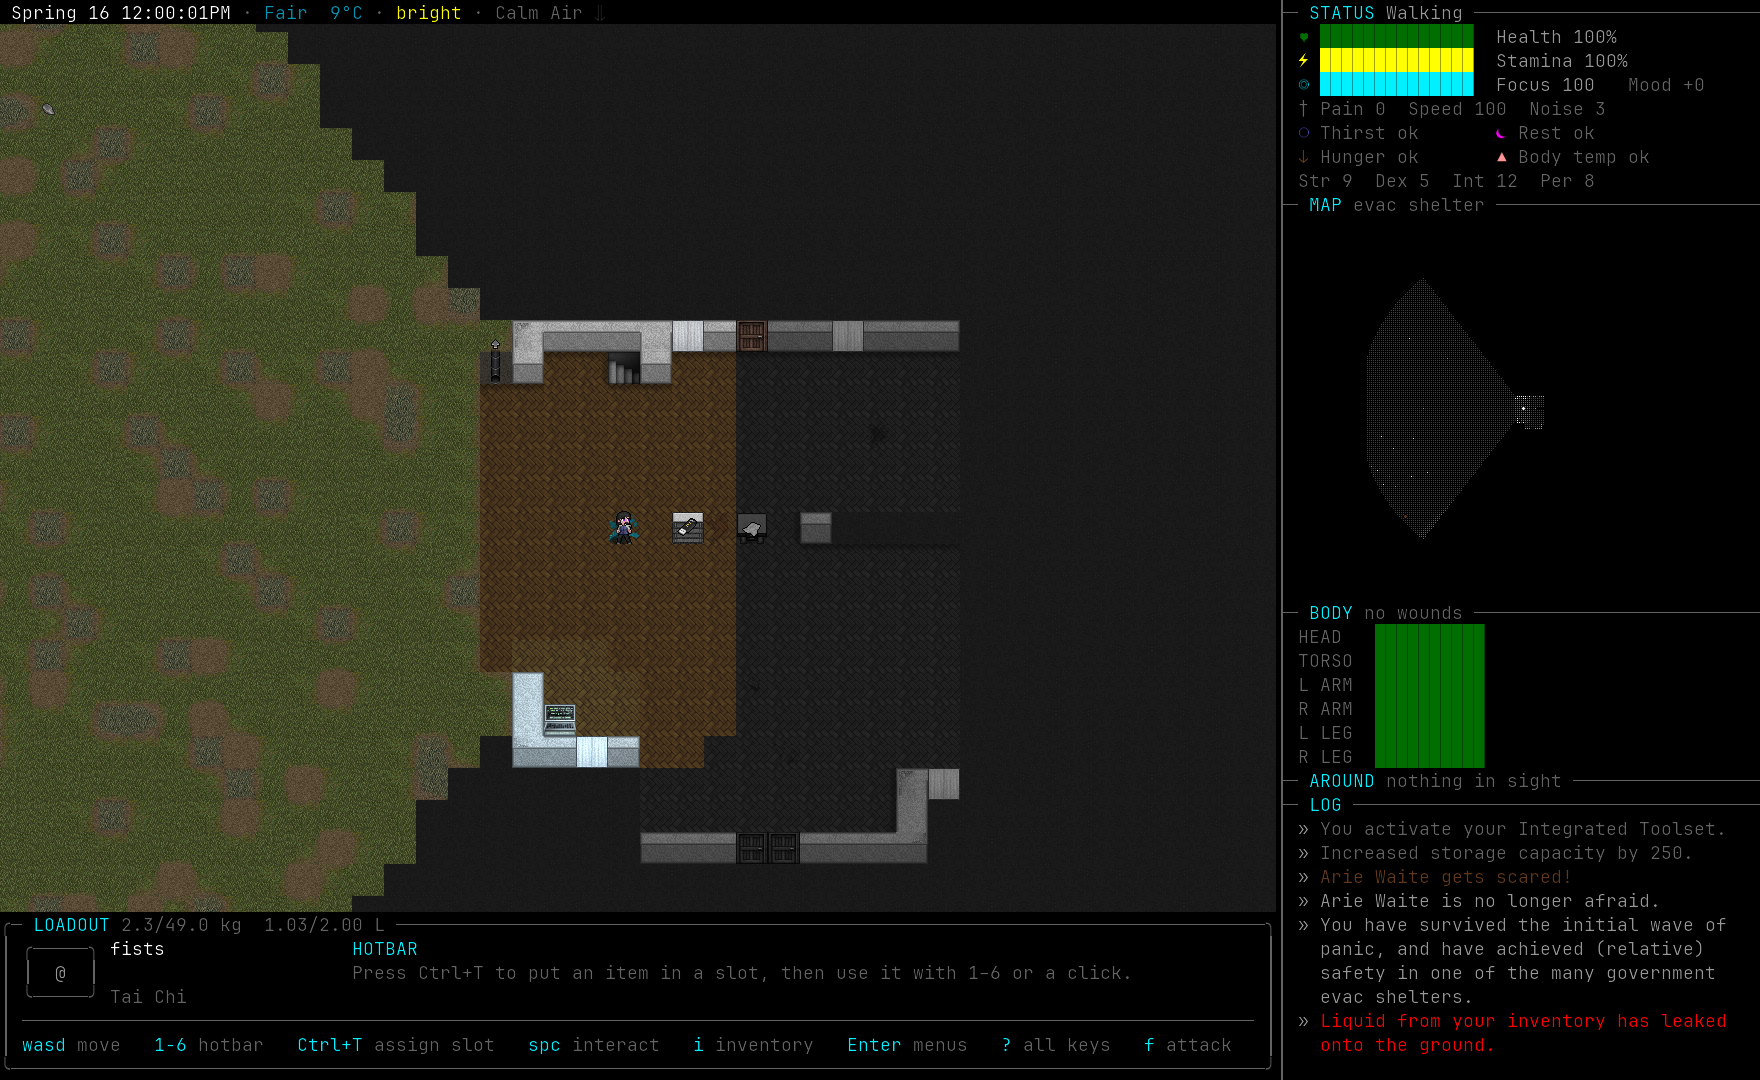
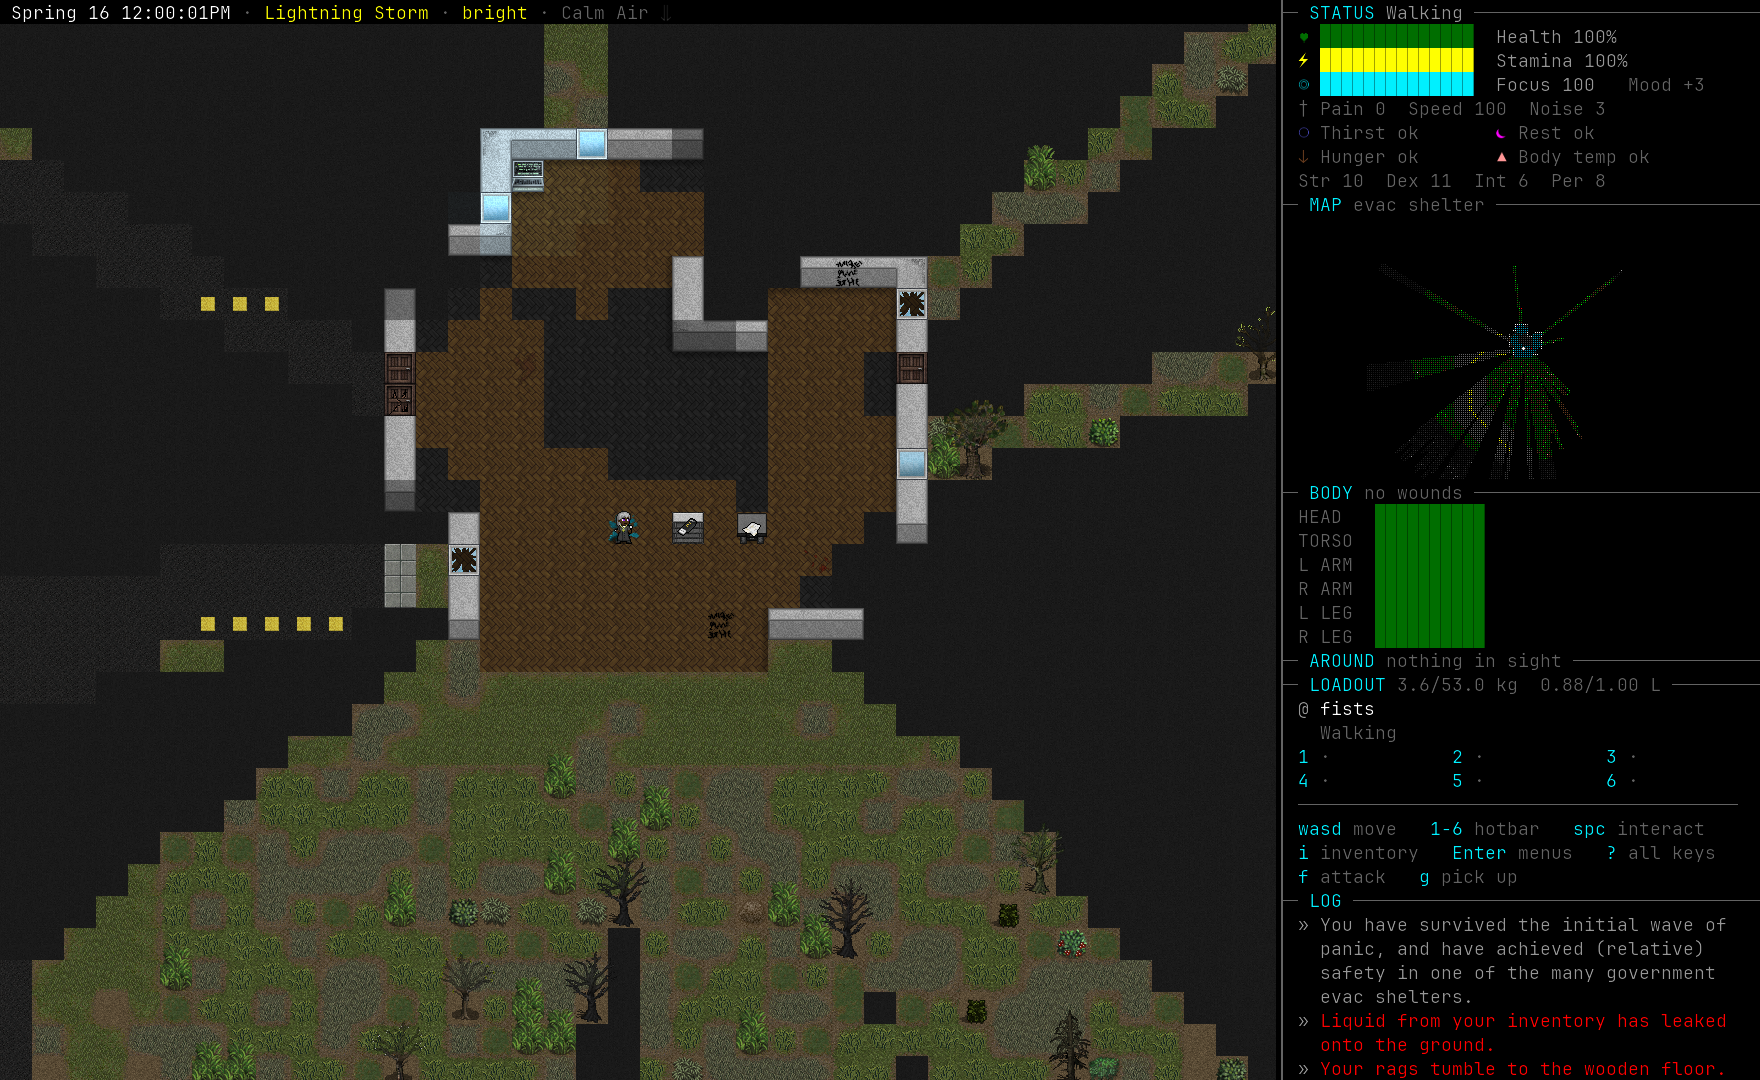
feat(hud): dock the fusion loadout into the sidebar

diff --git a/src/hud_fusion.cpp b/src/hud_fusion.cpp
@@ -32,8 +32,6 @@ namespace
 
 using namespace hud_draw;
 
-constexpr auto deck_height = 7;
-
 /// Icon, the need's name and its state; an unmet need replaces "ok" with its own wording.
 struct hit_area {
     rect at;
@@ -42,6 +40,10 @@ struct hit_area {
 };
 /// Where the last frame drew its overlays, in map-window cells, for click handling.
 auto hits = std::vector<hit_area>();
+/// Where the LOADOUT section drew its hotbar cells, in sidebar cells, for click handling.
+auto loadout_hits = std::vector<hit_area>();
+
+auto edge( const catacurses::window &w ) -> void;
 
 auto need( const catacurses::window &w, const point at, const char *icon, const nc_color icon_color,
            const hud_snapshot::need &n ) -> void
@@ -99,8 +101,8 @@ auto key_for( const action_id act ) -> std::string
     return desc == inp_mngr.get_keyname( ' ', input_event_t::keyboard ) ? std::string( _( "spc" ) ) : desc;
 }
 
-/// The handful of keys a player needs most, with their live bindings, on one row.
-auto draw_hints( const catacurses::window &w, const point at, const int room ) -> void
+/// The handful of keys a player needs most, with their live bindings, wrapped over `rows` rows.
+auto draw_hints( const catacurses::window &w, const point at, const int room, const int rows = 1 ) -> void
 {
     struct entry {
         std::vector<action_id> acts;
@@ -111,18 +113,19 @@ auto draw_hints( const catacurses::window &w, const point at, const int room ) -
     static const auto entries = std::array<entry, 11> { {
             { { ACTION_MOVE_FORTH, ACTION_MOVE_LEFT, ACTION_MOVE_BACK, ACTION_MOVE_RIGHT }, translate_marker( "move" ) },
             { { ACTION_HOTBAR_1, ACTION_HOTBAR_6 }, translate_marker( "hotbar" ), true },
-            { { ACTION_HOTBAR_ASSIGN }, translate_marker( "assign slot" ) },
             { { ACTION_EXAMINE }, translate_marker( "interact" ) },
             { { ACTION_INVENTORY }, translate_marker( "inventory" ) },
             { { ACTION_ACTIONMENU }, translate_marker( "menus" ) },
             { { ACTION_KEYBINDINGS }, translate_marker( "all keys" ) },
             { { ACTION_FIRE }, translate_marker( "attack" ) },
             { { ACTION_PICKUP }, translate_marker( "pick up" ) },
+            { { ACTION_HOTBAR_ASSIGN }, translate_marker( "assign slot" ) },
             { { ACTION_PAUSE }, translate_marker( "wait" ) },
             { { ACTION_MAP }, translate_marker( "map" ) },
         }
     };
     auto x = at.x;
+    auto y = at.y;
     for( const auto &e : entries ) {
         auto keys = std::string();
         for( const auto act : e.acts ) {
@@ -132,10 +135,14 @@ auto draw_hints( const catacurses::window &w, const point at, const int room ) -
             continue;
         }
         if( x + width( keys ) + 1 + utf8_width( _( e.label ) ) > at.x + room ) {
-            break;
+            if( y + 1 >= at.y + rows ) {
+                break;
+            }
+            ++y;
+            x = at.x;
         }
-        x = text( w, point( x, at.y ), pal::heading(), keys );
-        x = text( w, point( x + 1, at.y ), pal::muted(), _( e.label ) ) + 3;
+        x = text( w, point( x, y ), pal::heading(), keys );
+        x = text( w, point( x + 1, y ), pal::muted(), _( e.label ) ) + 3;
     }
 }
 
@@ -146,9 +153,9 @@ auto draw_vehicle( const avatar &you, const canvas &area ) -> void
         return;
     }
     const auto height = static_cast<int>( rows.size() ) + 2;
-    hits.push_back( { .at = { .at = point( 0, area.height - deck_height - height ), .width = 32, .height = height } } );
+    hits.push_back( { .at = { .at = point( 0, area.height - height ), .width = 32, .height = height } } );
     const auto w = panel( area, {
-        .at = point( 0, area.height - deck_height - height ), .width = 32, .height = height
+        .at = point( 0, area.height - height ), .width = 32, .height = height
     } );
     card( w, { .title = _( "VEHICLE" ) } );
     for( auto i = 0; i < static_cast<int>( rows.size() ); ++i ) {
@@ -156,74 +163,47 @@ auto draw_vehicle( const avatar &you, const canvas &area ) -> void
     }
 }
 
-auto draw_deck( const avatar &you, const canvas &area, const hud_snapshot::snapshot &s ) -> void
+/// The LOADOUT section: the held weapon, the hotbar and the keys most used, in the column.
+auto loadout_section( const catacurses::window &w, const avatar &you, const hud_snapshot::snapshot &s ) -> void
 {
-    hits.push_back( { .at = { .at = point( 0, area.height - deck_height ), .width = area.width, .height = deck_height } } );
-    const auto w = panel( area, {
-        .at = point( 0, area.height - deck_height ), .width = area.width, .height = deck_height
-    } );
-    card( w, { .title = _( "LOADOUT" ), .summary = string_format( "%s kg  %s L", s.weight, s.volume ),
+    edge( w );
+    rule( w, { .title = _( "LOADOUT" ),
+               .summary = string_format( "%s kg  %s L", s.weight, s.volume ),
                .summary_color = pal::muted() } );
 
-    // The weapon card; the item's map symbol stands in for its tile.
-    text( w, point( 2, 1 ), pal::border(), "╭─────╮" );
-    text( w, point( 2, 2 ), pal::border(), "│     │" );
-    text( w, point( 2, 3 ), pal::border(), "╰─────╯" );
-    text( w, point( 5, 2 ), s.weapon_color, s.weapon_symbol );
-    constexpr auto weapon_room = 20;
-    text( w, point( 10, 1 ), pal::title(), utf8_truncate( s.weapon, weapon_room ) );
-    auto x = 10;
+    // The held weapon: its map symbol, its name, and the ammo it fires.
+    text( w, point( 2, 1 ), s.weapon_color, s.weapon_symbol );
+    auto x = text( w, point( 4, 1 ), pal::title(), utf8_truncate( s.weapon, 24 ) );
     if( s.gun ) {
-        x = text( w, point( x, 2 ), pal::accent(), s.ammo );
-        x = dot( w, point( x, 2 ) );
+        x = text( w, point( x + 1, 1 ), pal::accent(), s.ammo );
     }
     if( s.armed ) {
-        text( w, point( x, 2 ), pal::text(), glyph::weapon );
+        text( w, point( x + 1, 1 ), pal::text(), glyph::weapon );
     }
-    text( w, point( 10, 3 ), pal::muted(), utf8_truncate( s.style.empty() ? s.stance : s.style, weapon_room ) );
+    text( w, point( 4, 2 ), pal::muted(), utf8_truncate( s.style.empty() ? s.stance : s.style, 36 ) );
 
-    // Hotbar: six boxes, the key in the top edge, the item's symbol and name inside.
-    constexpr auto slot_x = 32;
-    const auto room = area.width - slot_x - 2;
-    const auto box_w = std::clamp( room / hotbar::slots, 9, 16 );
-    const auto any_assigned = std::ranges::any_of( std::views::iota( 0, hotbar::slots ), [&]( const int i ) {
-        return hotbar::view( you, i ).assigned;
-    } );
-    if( !any_assigned ) {
-        // Six empty boxes teach nothing; say what the slots are for and how to fill them.
-        const auto assign = key_for( ACTION_HOTBAR_ASSIGN );
-        text( w, point( slot_x, 1 ), pal::heading(), _( "HOTBAR" ) );
-        text( w, point( slot_x, 2 ), pal::muted(), assign.empty() ?
-              _( "Assign items from Enter → Misc → Assign a hotbar slot, then use them with 1–6." ) :
-              string_format( _( "Press %s to put an item in a slot, then use it with 1–6 or a click." ), assign ) );
-    }
-    for( auto i = 0; any_assigned && i < hotbar::slots; ++i ) {
+    // Hotbar: three cells per row, the digit that uses the slot first. Empty slots still draw, so
+    // the row shows what there is to fill and where.
+    constexpr auto cell_w = 14;
+    for( auto i = 0; i < hotbar::slots; ++i ) {
         const auto v = hotbar::view( you, i );
-        const auto sx = slot_x + i * box_w;
-        hits.push_back( { .at = { .at = point( sx, area.height - deck_height + 1 ), .width = box_w - 1, .height = 3 },
-                          .slot = i } );
+        const auto sx = 2 + ( i % 3 ) * cell_w;
+        const auto sy = 3 + i / 3;
+        loadout_hits.push_back( { .at = { .at = point( getbegx( w ) + sx, getbegy( w ) + sy ),
+                                         .width = cell_w, .height = 1 }, .slot = i } );
         const auto ready = v.assigned && v.count > 0;
-        const auto color = v.wielded ? pal::accent() : ready ? pal::text() : pal::border();
-        hline( w, point( sx + 1, 1 ), box_w - 3, color );
-        hline( w, point( sx + 1, 3 ), box_w - 3, color );
-        text( w, point( sx, 1 ), color, "╭" );
-        text( w, point( sx + box_w - 2, 1 ), color, "╮" );
-        text( w, point( sx, 2 ), color, "│" );
-        text( w, point( sx + box_w - 2, 2 ), color, "│" );
-        text( w, point( sx, 3 ), color, "╰" );
-        text( w, point( sx + box_w - 2, 3 ), color, "╯" );
-        text( w, point( sx + 2, 1 ), v.wielded ? pal::accent() : pal::heading(), std::to_string( i + 1 ) );
+        auto cx = text( w, point( sx, sy ), v.wielded ? pal::accent() : pal::heading(), std::to_string( i + 1 ) );
         if( !v.assigned ) {
-            text( w, point( sx + 2, 2 ), pal::border(), "·" );
+            text( w, point( cx + 1, sy ), pal::border(), "·" );
             continue;
         }
-        text( w, point( sx + 2, 2 ), ready ? v.color : pal::border(), v.symbol );
+        cx = text( w, point( cx + 1, sy ), ready ? v.color : pal::border(), " " + v.symbol );
         const auto label = v.name + ( v.count > 1 ? " x" + std::to_string( v.count ) : std::string() );
-        text( w, point( sx + 4, 2 ), ready ? pal::title() : pal::muted(), utf8_truncate( label, box_w - 7 ) );
+        text( w, point( cx + 1, sy ), ready ? pal::title() : pal::muted(), utf8_truncate( label, cell_w - 6 ) );
     }
 
-    hline( w, point( 2, 4 ), area.width - 4, pal::border() );
-    draw_hints( w, point( 2, 5 ), area.width - 4 );
+    hline( w, point( 2, 5 ), getmaxx( w ) - 4, pal::border() );
+    draw_hints( w, point( 2, 6 ), getmaxx( w ) - 4, 3 );
 }
 
 /// Read once per map frame by the overlays and reused by the sidebar sections drawn after them.
@@ -293,8 +273,10 @@ auto minimap_rows() -> int
         return 0;
     }
     const auto chosen = get_option<int>( "PIXEL_MINIMAP_HEIGHT" );
-    // The layout's own default when the player has not set a height: compact, so the log grows.
-    return chosen > 0 ? chosen : 12;
+    // The minimap gives way first, so every section below it still fits on the screen.
+    const auto rest = 1 + status_rows + loadout_rows + body_rows( get_avatar() ) +
+                      around_rows( get_avatar() ) + sidebar::log_min_rows;
+    return std::clamp( chosen > 0 ? chosen : 12, 6, std::max( 6, TERMY - rest ) );
 #else
     return 0;
 #endif
@@ -319,10 +301,10 @@ auto draw( const avatar &you, const catacurses::window &w_terrain ) -> void
     };
     const auto &s = refresh( you );
     hits.clear();
+    loadout_hits.clear();
     begin_frame();
     draw_ribbon( area, s );
     draw_vehicle( you, area );
-    draw_deck( you, area, s );
     end_frame();
 }
 
@@ -348,7 +330,23 @@ auto clicked( avatar &you, const point &cell ) -> bool
     if( !active() ) {
         return false;
     }
-    // Later entries sit on top of earlier ones: the slots over the deck they are drawn in.
+    // The hotbar lives in the column now: a click there uses a slot, and any other click on the
+    // column stops here instead of reaching the map behind it.
+    if( get_option<std::string>( "SIDEBAR_POSITION" ) == "right" ) {
+        const auto sidebar_x = TERMX - panel_manager::get_manager().get_width_right();
+        if( cell.x >= sidebar_x ) {
+            for( const auto &hit : loadout_hits ) {
+                const auto &r = hit.at;
+                if( cell.x >= r.at.x && cell.x < r.at.x + r.width && cell.y >= r.at.y &&
+                    cell.y < r.at.y + r.height ) {
+                    hotbar::use( you, hit.slot );
+                    return true;
+                }
+            }
+            return true;
+        }
+    }
+    // Later entries sit on top of earlier ones: the vehicle card over the map it sits on.
     for( auto it = hits.rbegin(); it != hits.rend(); ++it ) {
         const auto &hit = *it;
         const auto &r = hit.at;
@@ -373,6 +371,12 @@ auto draw_map_rule( avatar &you, const catacurses::window &w ) -> void
 auto draw_status( avatar &you, const catacurses::window &w ) -> void
 {
     status_section( w, current( you ) );
+    wnoutrefresh( w );
+}
+
+auto draw_loadout( avatar &you, const catacurses::window &w ) -> void
+{
+    loadout_section( w, you, current( you ) );
     wnoutrefresh( w );
 }
 

diff --git a/tests/e2e/hud_fusion.py b/tests/e2e/hud_fusion.py
@@ -25,8 +25,7 @@ def rule_rows(screen, title):
 
 
 def assert_fusion(screen):
-    assert re.search(r"╭[^\n]*\bLOADOUT\b", screen), f"the LOADOUT card is missing:\n{screen}"
-    for title in ("STATUS", "BODY", "AROUND", "LOG"):
+    for title in ("STATUS", "BODY", "AROUND", "LOADOUT", "LOG"):
         assert len(rule_rows(screen, title)) == 1, f"one {title} rule expected:\n{screen}"
     first = screen.splitlines()[0]
     assert re.search(r"(Spring|Summer|Autumn|Winter) \d+", first), \
@@ -110,17 +109,17 @@ def test_clicking_a_hotbar_slot_uses_it_and_overlay_clicks_stay_off_the_map(_g):
         game.settle_screen()
         before = bub_pos(game)
         for y, line in enumerate(game.screen().splitlines()):
-            if "╭─2" in line:
-                x = line.index("╭─2")
+            if "combat" in line:
+                x = line.index("combat")
                 break
         else:
             raise AssertionError("hotbar slot 2 missing:\n" + game.screen())
-        game.click(x + 2, y + 1)
+        game.click(x, y)
         game.settle_screen()
         assert "knife" in wielded(game), "a click on the slot should use it:\n" + game.screen()
         assert bub_pos(game) == before
-        # A click on the status card is swallowed, never walked to or selected on the map.
-        game.click(5, 2)
+        # A click on the column is swallowed, never walked to or selected on the map.
+        game.click(120, 2)
         assert bub_pos(game) == before
 
 
@@ -147,6 +146,12 @@ def test_around_names_who_is_in_sight(_g):
                      define=HELPERS, setup=fusion_setup) as game:
         assert game.lua("gapi.place_monster_at(MonsterTypeId.new('mon_zombie'),here(4,-3)) out('ok')") == ["ok"]
         game.keys("x", delay=0.8)
+        game.settle_screen()
+        # The load race can dim a noon world (the light-cache bug); AROUND then sees nothing and
+        # this test would look like a layout failure. Say which one it is.
+        top = game.screen().splitlines()[0]
+        assert "very dark" not in top, f"the world loaded dim, the light-cache bug:\n{top}"
+        game.wait_for("hostile", timeout=15)
         game.settle_screen()
         screen = game.screen()
         assert re.search(r"├─* *AROUND \d+ hostile", screen), screen

diff --git a/src/hud_fusion.h b/src/hud_fusion.h
@@ -17,6 +17,7 @@ namespace hud_fusion
 /// Rows the STATUS section needs, and the BODY and AROUND sections now: every limb is listed, and
 /// AROUND grows with what is in sight.
 inline constexpr int status_rows = 8;
+inline constexpr int loadout_rows = 9;
 auto body_rows( const avatar &you ) -> int;
 auto around_rows( const avatar &you ) -> int;
 
@@ -39,6 +40,7 @@ auto clicked( avatar &you, const point &cell ) -> bool;
 auto draw_minimap( avatar &you, const catacurses::window &w ) -> void;
 auto draw_map_rule( avatar &you, const catacurses::window &w ) -> void;
 auto draw_status( avatar &you, const catacurses::window &w ) -> void;
+auto draw_loadout( avatar &you, const catacurses::window &w ) -> void;
 auto draw_body( avatar &you, const catacurses::window &w ) -> void;
 auto draw_around( avatar &you, const catacurses::window &w ) -> void;
 auto draw_log( avatar &you, const catacurses::window &w ) -> void;

diff --git a/src/panels.cpp b/src/panels.cpp
@@ -2824,6 +2824,8 @@ auto initialize_fusion_panels() -> std::vector<window_panel>
     ret.emplace_back( hud_fusion::draw_around, translate_marker( "Around" ), 5, 44, true,
                       compass_panel );
     ret.back().set_height_override( []() { return hud_fusion::around_rows( get_avatar() ); } );
+    ret.emplace_back( hud_fusion::draw_loadout, translate_marker( "Loadout" ), hud_fusion::loadout_rows,
+                      44, true );
     ret.emplace_back( hud_fusion::draw_log, translate_marker( "Log" ), -2, 44, true, log_panel );
     return ret;
 }

diff --git a/OVERHAUL.md b/OVERHAUL.md
@@ -464,24 +464,24 @@ pictures, and uses the bundled default tileset (MSX++ UnDeadPeople).
   Both the terminal and tiles builds draw the windows.
 - **Fusion HUD** is the layout new configurations start with, on screens of at least 140×36
   cells; smaller screens draw grouped instead. A one-line ribbon (date and time, weather, light,
-  wind, safe mode) runs along the top left, and a **LOADOUT** deck (weapon card with ammo, hotbar
-  slots and one row of key hints) sits at the bottom. The right sidebar stacks **STATUS** (health,
+  wind, safe mode) runs along the top left, and the right sidebar stacks **STATUS** (health,
   stamina and focus gauges with mood, pain, speed, noise, needs and the four stats), **MAP** (the
-  pixel minimap: turn *Pixel minimap* off to clear the column, and it is 12 rows unless you set a
-  height), **BODY** (a bar for every limb, wounded or not), **AROUND** (each creature in sight by
-  name, direction and distance, hostiles first) and **LOG** (messages in the log's own colours);
-  the log takes every row the sections above leave. With no hotbar slot assigned, the deck says how
-  to fill one. The map shrinks to the free area, so the character stays centred. Select fusion,
-  grouped or another layout in **Enter → Misc → Sidebar Options**.
-- **Hotbar** (Modern, fusion deck): six quick slots on `1`–`6`. **Ctrl+T** opens *Assign a hotbar
-  slot*: pick a slot, then an item (Esc clears it). A slot remembers the item type, not the stack;
-  its key does what the Use menu does with the first matching carried item (read, eat, wield, wear
-  or activate; a wielded gun is reloaded). An empty slot, or one whose item you no longer carry,
+  pixel minimap: turn *Pixel minimap* off to clear it, and it gives way when the column is full),
+  **BODY** (a bar for every limb, wounded or not), **AROUND** (each creature in sight by name,
+  direction and distance, hostiles first), **LOADOUT** (the held weapon with its ammo, the style
+  or stance, six hotbar cells and the key hints, wrapped) and **LOG** (messages in the log's own
+  colours); the log takes every row the sections above leave. The map keeps only the ribbon row
+  and the VEHICLE card, and the character stays centred. Select fusion, grouped or another layout
+  in **Enter → Misc → Sidebar Options**.
+- **Hotbar** (Modern, fusion LOADOUT section): six quick slots on `1`–`6`. **Ctrl+T** opens *Assign
+  a hotbar slot*: pick a slot, then an item (Esc clears it). A slot remembers the item type, not the
+  stack; its key does what the Use menu does with the first matching carried item (read, eat, wield,
+  wear or activate; a wielded gun is reloaded). An empty slot, or one whose item you no longer carry,
   only says so. Slots are saved with the character, so they work in every layout; only the fusion
-  deck draws them, and clicking a slot uses it. A slot with nothing assigned uses the item whose inventory
-  letter is that digit. Classic has no default hotbar keys; bind *Hotbar slot N* if you want them.
-  Aboard or remote-controlling a vehicle, a **VEHICLE** card (azimuth, speed, cruise, engine, fuel,
-  battery) appears above the deck.
+  LOADOUT section draws them, and clicking a cell uses it. A slot with nothing assigned uses the item
+  whose inventory letter is that digit. Classic has no default hotbar keys; bind *Hotbar slot N* if
+  you want them. Aboard or remote-controlling a vehicle, a **VEHICLE** card (azimuth, speed, cruise,
+  engine, fuel, battery) sits at the bottom left of the map.
 - **Inventory item menu** numbers its rows `1`–`9`, `0` in Modern; the old letters still work.
 - **Grouped right sidebar**, based on the Opus HUD proposal: its HUD groups are the windows above,
   so the sidebar keeps Location, Controls and the optional Map. The Location group keeps its 5×5

diff --git a/CHANGELOG-OVERHAUL.md b/CHANGELOG-OVERHAUL.md
@@ -8,10 +8,11 @@ Upstream's own changes are in `docs/en/game/changelog`.
 
 ### Changed
 
-- Fusion HUD: the STATUS card moved into the sidebar column, so only the ribbon and the loadout
-  deck draw over the map, and the date and time ribbon now starts at the top left. BODY lists every
-  limb again, healthy or not; the pixel minimap is 12 rows unless you set a height, so the log
-  takes the rest.
+- Fusion HUD: the STATUS card and the LOADOUT deck moved into the sidebar column, so the map keeps
+  only the ribbon row and the vehicle card; the date and time ribbon now starts at the top left.
+  BODY lists every limb again, healthy or not. The pixel minimap gives way when the column is full
+  and is turned off with *Pixel minimap*; the LOADOUT section carries the weapon, the hotbar and the
+  key hints, wrapped over three rows.
 - The World page (`M`) lives in the HUD column on the fusion layout: a two-row tab
   strip in the sidebar, numbers and arrows switch tabs, the list fills the column, Enter opens
   the full page for the details, and Esc remembers the tab.
